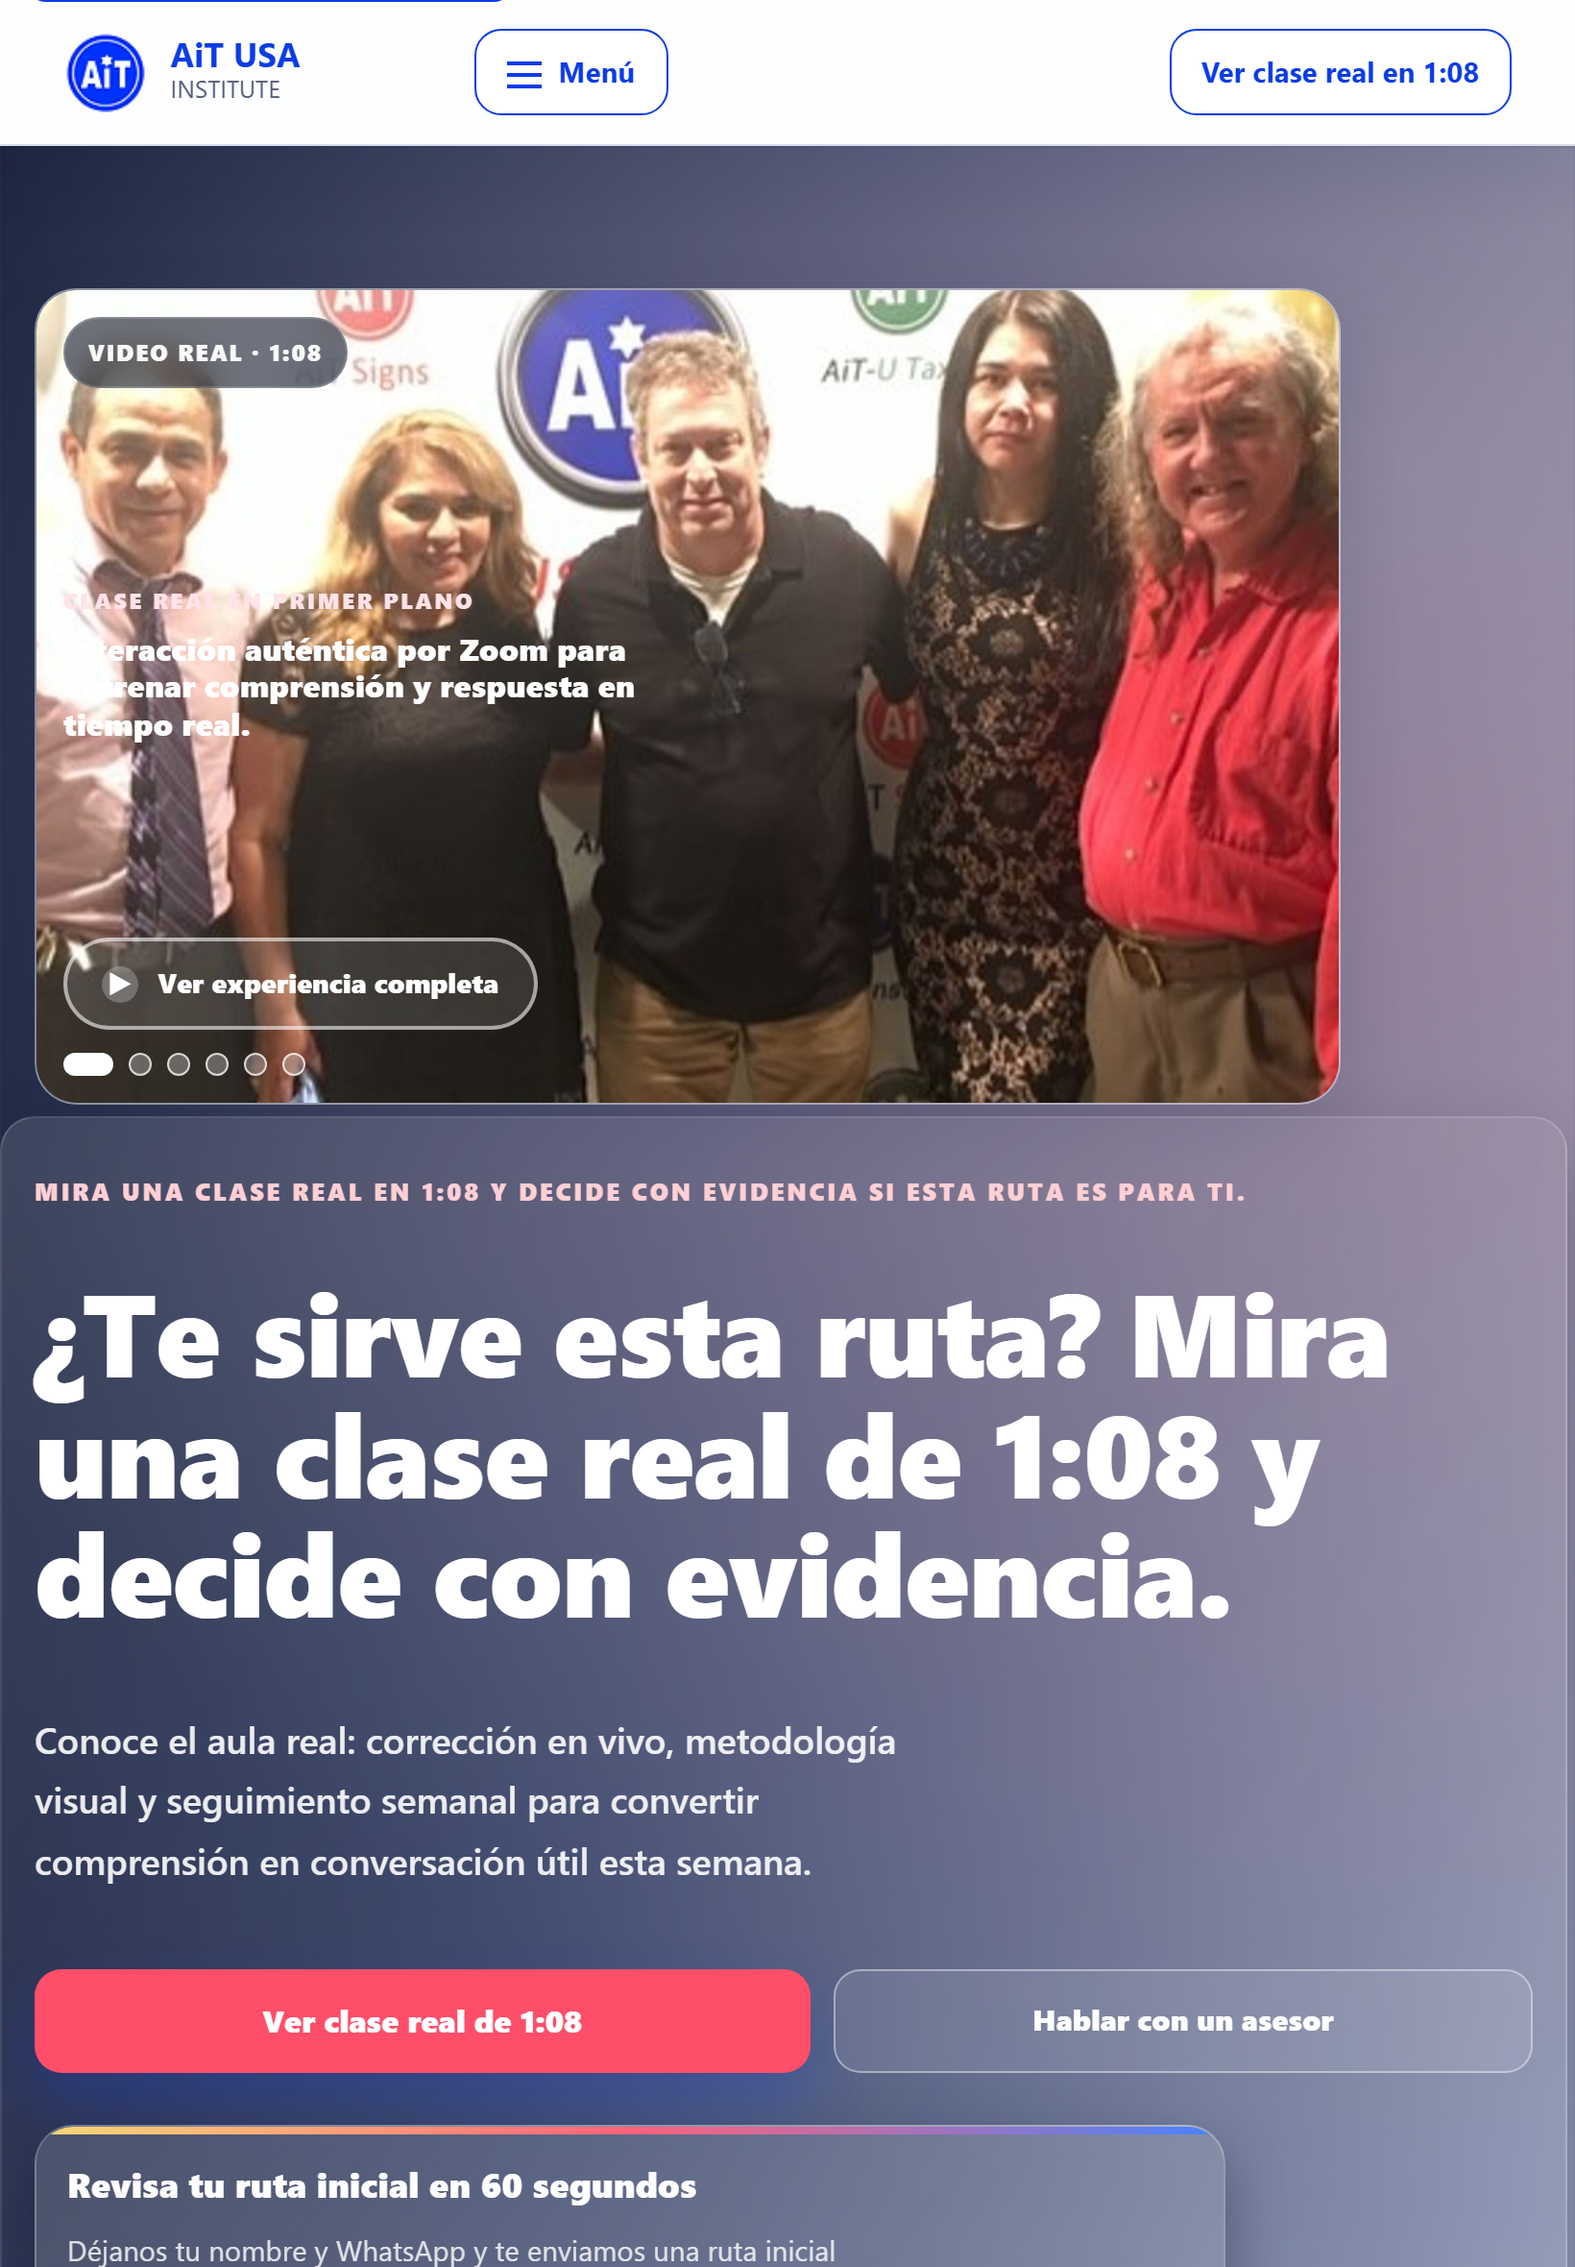
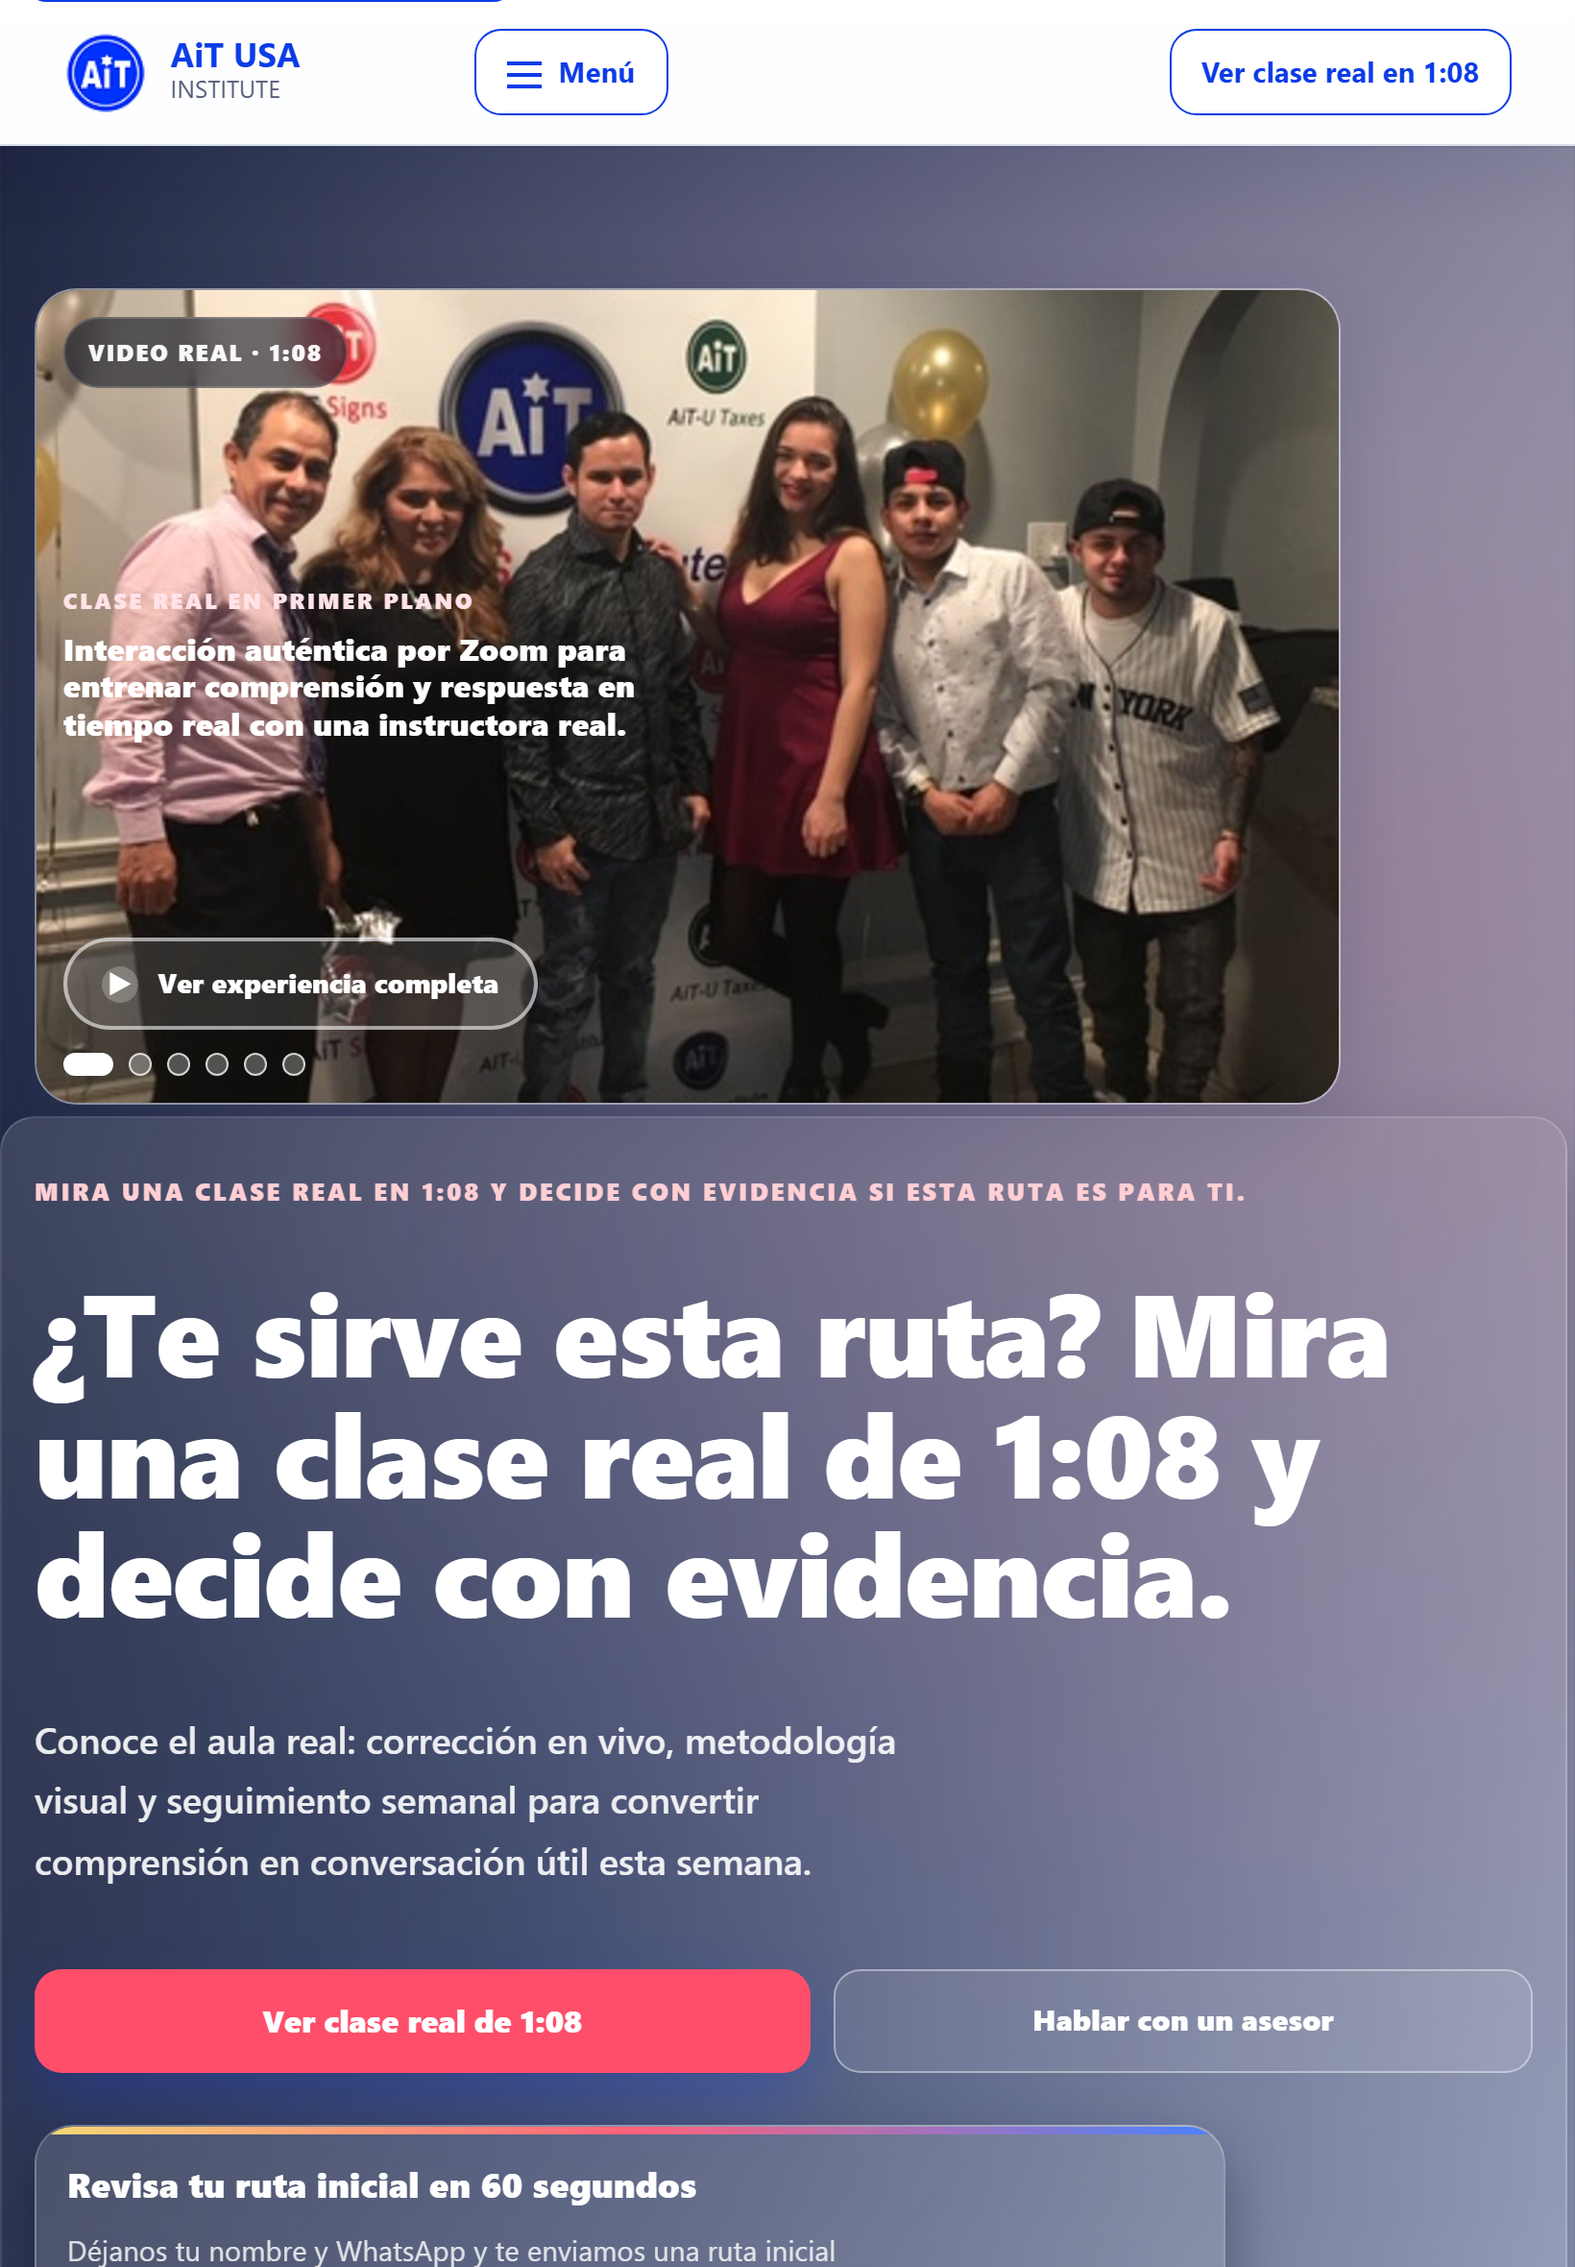
Use local female-speaking assets as hero media and metadata

Changed region(s): [[0.0, 0.1237, 0.8707, 0.4949]]

diff --git a/src/content.js b/src/content.js
@@ -48,8 +48,9 @@ const site = {
     "Mira una clase real de inglés de 1:08 y decide con evidencia si esta ruta te conviene. Elige presencial, híbrido u online en Nueva Jersey y define tu mejor horario.",
   seoKeywords:
     "AiT USA Institute, clases de inglés Nueva Jersey, clase real de inglés, clases presenciales de inglés, clases híbridas, clases online, clase demo, método visual, ruta personalizada, Bound Brook, Plainfield, Piscataway, entrevista de trabajo en inglés, inglés conversacional para adultos",
-  seoImage: assetHires("hero-classroom.jpg"),
-  seoImageAlt: "Instructora de AiT USA enseñando clase real de inglés en Nueva Jersey.",
+  seoImage: asset("live/hero-female-speaking-poster.jpg"),
+  seoImageAlt:
+    "Instructora de AiT USA enseñando una clase real de inglés con cámara activa para corregir en vivo.",
   seoVideo: asset("live/hero-female-speaking-1080p.mp4"),
   seoVideoDuration: "PT1M8S",
   email: "info@aitusainstitute.com",
@@ -94,12 +95,12 @@ const site = {
   },
   images: {
     logo: asset("006-solo-logo-4-x-4-clases1.png"),
-    hero: assetHires("hero-classroom.jpg"),
-    heroPoster: assetHires("hero-classroom.jpg"),
+    hero: asset("live/hero-female-speaking-poster.jpg"),
+    heroPoster: asset("live/hero-female-speaking-poster.jpg"),
     heroVideo: asset("live/hero-female-speaking-1080p.mp4"),
     heroVideoPortrait: asset("live/hero-female-speaking-360p.mp4"),
     heroVideoFallback: asset("live/hero-female-speaking-360p.mp4"),
-    heroVideoPoster: assetHires("hero-classroom.jpg"),
+    heroVideoPoster: asset("live/hero-female-speaking-poster.jpg"),
     adultEnglish: assetHires("adult-english-speaking.jpg"),
     onlineEnglish: assetHires("online-instructor-headset.jpg"),
     kidsEnglish: assetHires("kids-online-class.jpg"),
@@ -436,19 +437,20 @@ const programs = [
 const heroGallery = [
   {
     label: "Clase real en primer plano",
-    title: "Interacción auténtica por Zoom para entrenar comprensión y respuesta en tiempo real.",
-    image: assetHires("hero-female-teacher.jpg"),
+    title:
+      "Interacción auténtica por Zoom para entrenar comprensión y respuesta en tiempo real con una instructora real.",
+    image: asset("live/hero-female-zoom.jpg"),
     video: site.images.heroVideo,
-    videoPoster: assetHires("hero-female-teacher.jpg"),
+    videoPoster: asset("live/hero-female-zoom.jpg"),
     imageAlt:
       "Instructora de AiT USA interactuando con estudiantes en una sesión online de inglés.",
   },
   {
     label: "Clase en vivo",
     title: "Corrección instantánea y conversación guiada para hablar con más claridad desde el primer bloque.",
-    image: assetHires("hero-classroom.jpg"),
+    image: asset("live/hero-female-classroom.jpg"),
     video: site.images.heroVideo,
-    videoPoster: assetHires("hero-classroom.jpg"),
+    videoPoster: asset("live/hero-female-classroom.jpg"),
     imageAlt:
       "Docente femenina de AiT USA guiando una clase en vivo de conversación en inglés.",
   },
@@ -464,26 +466,26 @@ const heroGallery = [
   {
     label: "Clase con foco visual",
     title: "Material visual claro y práctica guiada para reforzar lo aprendido en vivo.",
-    image: assetHires("hero-classroom.jpg"),
+    image: asset("live/hero-female-speaking-poster.jpg"),
     video: site.images.heroVideo,
-    videoPoster: assetHires("hero-classroom.jpg"),
+    videoPoster: asset("live/hero-female-speaking-poster.jpg"),
     imageAlt: "Grupo en clase presencial practicando conversación y pronunciación en inglés.",
   },
   {
     label: "Seguimiento semanal",
     title: "Ruta semanal con acciones claras para convertir práctica en hábito.",
-    image: assetHires("hero-female-teacher.jpg"),
+    image: asset("live/hero-female-classroom.jpg"),
     video: site.images.heroVideo,
-    videoPoster: assetHires("hero-female-teacher.jpg"),
+    videoPoster: asset("live/hero-female-classroom.jpg"),
     imageAlt:
       "Instructora de AiT USA trabajando con una estudiante para mejorar la fluidez y la seguridad.",
   },
   {
     label: "Resultados reales",
     title: "Seguimiento de progreso con evidencia visual de resultados en cada módulo.",
-    image: assetHires("hero-classroom.jpg"),
+    image: asset("live/hero-female-speaking-poster.jpg"),
     video: site.images.heroVideo,
-    videoPoster: assetHires("hero-classroom.jpg"),
+    videoPoster: asset("live/hero-female-speaking-poster.jpg"),
     imageAlt: "Estudiantes de AiT USA aplicando lo aprendido en clase de inglés.",
   },
 ];
@@ -516,9 +518,9 @@ const instructorClips = [
   {
     title: "Clase de entrevista en vivo",
     eyebrow: "Muestra real",
-    image: assetHires("hero-female-teacher.jpg"),
+    image: asset("live/hero-female-zoom.jpg"),
     video: site.images.heroVideo,
-    videoPoster: assetHires("hero-female-teacher.jpg"),
+    videoPoster: asset("live/hero-female-zoom.jpg"),
     imageAlt:
       "Instructora de AiT USA guiando una práctica de entrevista en clase con método visual en inglés.",
     caption:
@@ -528,9 +530,9 @@ const instructorClips = [
   {
     title: "Escucha y responde al instante",
     eyebrow: "Metodología visual",
-    image: assetHires("hero-female-teacher.jpg"),
+    image: asset("live/hero-female-classroom.jpg"),
     video: site.images.heroVideo,
-    videoPoster: assetHires("hero-female-teacher.jpg"),
+    videoPoster: asset("live/hero-female-classroom.jpg"),
     imageAlt: "Instructora y estudiante practicando inglés mediante Zoom con enfoque visual y conversación real.",
     caption:
       "Escucha guiada con pausas estratégicas para dominar respuestas rápidas con significado, no solo pronunciación.",
@@ -539,9 +541,9 @@ const instructorClips = [
   {
     title: "Conexión auténtica en clases online",
     eyebrow: "8 a 13 años",
-    image: assetHires("hero-female-teacher.jpg"),
+    image: asset("live/hero-female-teacher.jpg"),
     video: site.images.heroVideoPortrait,
-    videoPoster: assetHires("hero-female-teacher.jpg"),
+    videoPoster: asset("live/hero-female-teacher.jpg"),
     imageAlt:
       "Estudiante practicando inglés en una clase remota con acompañamiento de la instructora.",
     caption:
@@ -551,9 +553,9 @@ const instructorClips = [
   {
     title: "Respuesta guiada en clase",
     eyebrow: "Sesión de progreso",
-    image: assetHires("hero-classroom.jpg"),
+    image: asset("live/hero-female-speaking-poster.jpg"),
     video: site.images.heroVideo,
-    videoPoster: assetHires("hero-classroom.jpg"),
+    videoPoster: asset("live/hero-female-speaking-poster.jpg"),
     imageAlt: "Instructora de AiT USA interactuando con estudiantes en una clase de inglés.",
     caption:
       "Estrategias y corrección puntual para pasar de comprender a comunicar ideas con mayor naturalidad.",
@@ -787,7 +789,7 @@ const teachers = [
     name: "Instructora de inglés conversacional",
     intent: "classSample",
     href: "#experiencia",
-    image: assetHires("hero-female-teacher.jpg"),
+    image: asset("live/hero-female-speaking-poster.jpg"),
     imageAlt: "Instructora de AiT USA corrigiendo pronunciación durante una clase real de conversación.",
     role: "Corrección en vivo con seguimiento semanal.",
     description:
@@ -798,7 +800,7 @@ const teachers = [
     name: "Instructora de práctica online",
     intent: "classSample",
     href: "#experiencia",
-    image: assetHires("hero-female-teacher.jpg"),
+    image: asset("live/hero-female-zoom.jpg"),
     imageAlt: "Instructora de AiT USA guiando una clase de inglés por videollamada.",
     role: "Aprendizaje remoto con participación guiada.",
     description:
@@ -809,7 +811,7 @@ const teachers = [
     name: "Instructora de continuidad académica",
     intent: "default",
     href: "#contacto",
-    image: assetHires("testimonial-marisol-1200.jpg"),
+    image: asset("live/hero-female-classroom.jpg"),
     imageAlt: "Instructora de AiT USA motivando a estudiantes en una clase práctica.",
     role: "Soporte constante y ruta personalizada.",
     description:

diff --git a/index.html b/index.html
@@ -22,8 +22,8 @@
     content="Mira una clase real de inglés de 1:08 y decide con evidencia si esta ruta te conviene. Elige presencial, híbrido u online y define tu mejor horario."
   />
   <meta property="og:url" content="https://www.aitusainstitute.com/" />
-  <meta property="og:image" content="https://www.aitusainstitute.com/public/assets/wix/hires/hero-classroom.jpg" />
-  <meta property="og:image:secure_url" content="https://www.aitusainstitute.com/public/assets/wix/hires/hero-classroom.jpg" />
+  <meta property="og:image" content="https://www.aitusainstitute.com/public/assets/wix/live/hero-female-speaking-poster.jpg" />
+  <meta property="og:image:secure_url" content="https://www.aitusainstitute.com/public/assets/wix/live/hero-female-speaking-poster.jpg" />
   <meta property="og:image:type" content="image/jpeg" />
   <meta property="og:image:width" content="1920" />
   <meta property="og:image:height" content="1080" />
@@ -42,7 +42,7 @@
   <meta name="twitter:description" content="Mira una clase real de inglés de 1:08 y decide con evidencia si esta ruta te conviene." />
   <meta name="twitter:site" content="@AiTUSA_Institute" />
   <meta name="twitter:creator" content="@AiTUSA_Institute" />
-  <meta name="twitter:image" content="https://www.aitusainstitute.com/public/assets/wix/hires/hero-classroom.jpg" />
+  <meta name="twitter:image" content="https://www.aitusainstitute.com/public/assets/wix/live/hero-female-speaking-poster.jpg" />
   <meta name="twitter:image:width" content="1920" />
   <meta name="twitter:image:height" content="1080" />
   <meta name="twitter:image:alt" content="Instructora de AiT USA enseñando clase real de inglés en Nueva Jersey." />
@@ -58,7 +58,7 @@
   <link rel="manifest" href="./site.webmanifest" />
   <link rel="alternate" href="https://www.aitusainstitute.com/" hreflang="es-US" />
   <link rel="alternate" href="https://www.aitusainstitute.com/" hreflang="x-default" />
-  <link rel="preload" as="image" href="./public/assets/wix/hires/hero-classroom.jpg" />
+  <link rel="preload" as="image" href="./public/assets/wix/live/hero-female-speaking-poster.jpg" />
   <link rel="preload" as="video" href="./public/assets/wix/live/hero-female-speaking-360p.mp4" type="video/mp4" media="(max-width: 900px)" />
   <link rel="preload" as="video" href="./public/assets/wix/live/hero-female-speaking-1080p.mp4" type="video/mp4" media="(min-width: 901px)" />
   <link rel="stylesheet" href="./src/styles.css" />
@@ -71,7 +71,7 @@
         "url": "https://www.aitusainstitute.com/",
         "@id": "https://www.aitusainstitute.com/#organization",
   "logo": "https://www.aitusainstitute.com/public/assets/wix/006-solo-logo-4-x-4-clases1.png",
-    "image": "https://www.aitusainstitute.com/public/assets/wix/hires/hero-classroom.jpg",
+    "image": "https://www.aitusainstitute.com/public/assets/wix/live/hero-female-speaking-poster.jpg",
         "description": "AiT USA Institute ofrece clases de inglés presenciales, híbridas y online en Nueva Jersey con video real de aula, instructoras bilingües y seguimiento semanal.",
         "telephone": "+1-732-271-0011",
         "email": "info@aitusainstitute.com",
@@ -155,7 +155,7 @@
       },
       "primaryImageOfPage": {
         "@type": "ImageObject",
-        "url": "https://www.aitusainstitute.com/public/assets/wix/hires/hero-classroom.jpg"
+        "url": "https://www.aitusainstitute.com/public/assets/wix/live/hero-female-speaking-poster.jpg"
       },
       "mainEntity": {
         "@id": "https://www.aitusainstitute.com/#clase-real-video"
@@ -178,8 +178,8 @@
     "contentUrl": "https://www.aitusainstitute.com/public/assets/wix/live/hero-female-speaking-1080p.mp4",
       "embedUrl": "https://www.aitusainstitute.com/#experiencia",
   "thumbnailUrl": [
-    "https://www.aitusainstitute.com/public/assets/wix/hires/hero-classroom.jpg",
-    "https://www.aitusainstitute.com/public/assets/wix/hires/hero-classroom.jpg"
+    "https://www.aitusainstitute.com/public/assets/wix/live/hero-female-speaking-poster.jpg",
+    "https://www.aitusainstitute.com/public/assets/wix/live/hero-female-speaking-poster.jpg"
       ],
       "duration": "PT1M8S",
       "encodingFormat": "video/mp4",
@@ -418,7 +418,7 @@
       "@type": "LocalBusiness",
   "name": "AiT USA Institute",
       "foundingDate": "2004",
-  "image": "https://www.aitusainstitute.com/public/assets/wix/hires/hero-classroom.jpg",
+  "image": "https://www.aitusainstitute.com/public/assets/wix/live/hero-female-speaking-poster.jpg",
       "@id": "https://www.aitusainstitute.com/",
       "url": "https://www.aitusainstitute.com/",
       "telephone": "+1-732-271-0011",

diff --git a/src/styles.css b/src/styles.css
@@ -659,6 +659,8 @@ select {
   letter-spacing: 0.12em;
   font-weight: 850;
   text-transform: uppercase;
+  overflow-wrap: anywhere;
+  hyphens: auto;
 }
 
 .hero__media-title {
@@ -666,6 +668,8 @@ select {
   font-weight: 800;
   line-height: 1.2;
   letter-spacing: 0.01em;
+  overflow-wrap: anywhere;
+  hyphens: auto;
 }
 
 .hero__media-dots {
